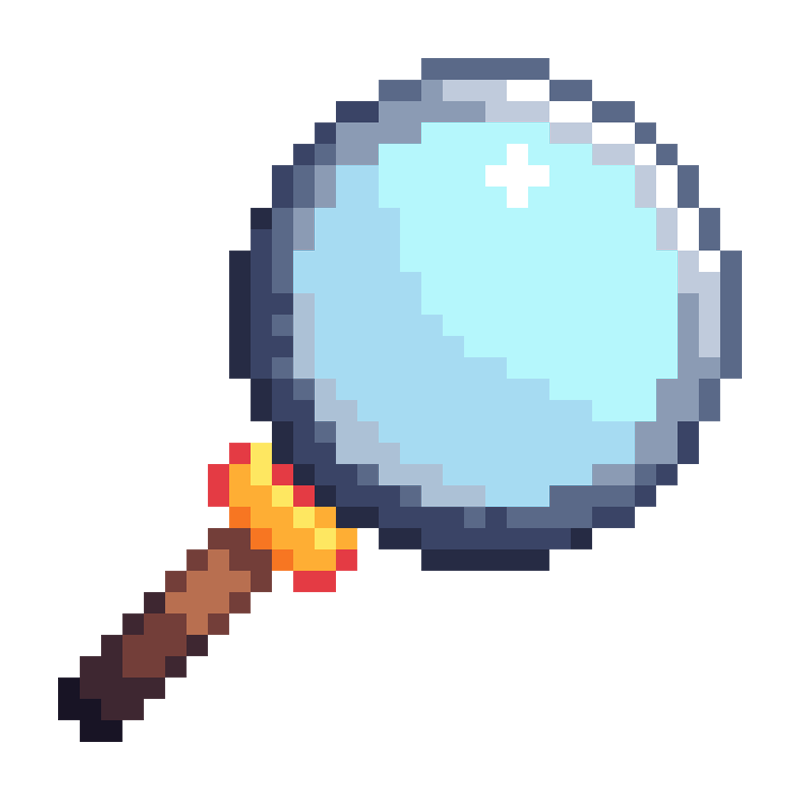
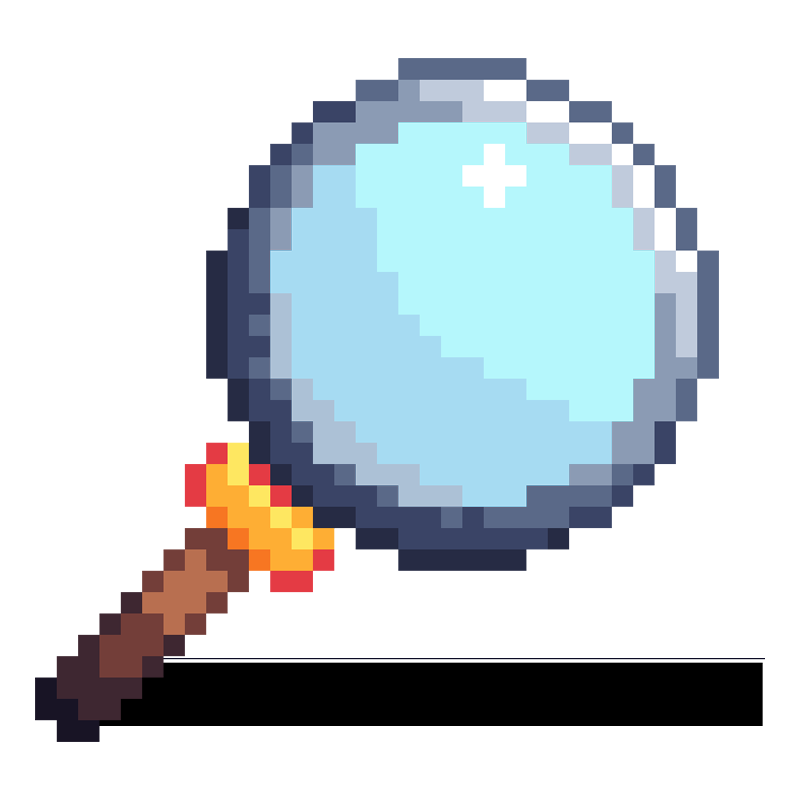
More Search Bars 0.1.0 Full Release!
- Updated icon.png
- Added README
- Added .github/FUNDING.yml for donations info (for the third time)
- Fixed visual glitch with the footer of the keybinds screen
- This mod has some conflicts with AMECS and Controlling! compatibility is coming soon™

Changed region(s): [[0.0312, 0.0625, 0.9688, 0.9375], [0.6875, 0.5, 0.75, 0.5312], [0.6562, 0.4688, 0.6875, 0.5]]

diff --git a/common/src/main/java/coolaid/moresearchbars/keybindsClient/NewKeyBindsScreen.java b/common/src/main/java/coolaid/moresearchbars/keybindsClient/NewKeyBindsScreen.java
@@ -42,23 +42,17 @@ public class NewKeyBindsScreen extends KeyBindsScreen {
     public NewKeyBindsScreen(Screen screen, Options settings) {
         super(screen, settings);
         this.layout.setHeaderHeight(48);
-        this.layout.setFooterHeight(84);
+        this.layout.setFooterHeight(54);
     }
 
     @Override
     protected void init() {
         super.init();
-        if (isSearchEnabled() && this.search != null) {
-            this.search.moveCursor(0, false);
-        }
+        this.search.moveCursor(0, false);
     }
 
     @Override
     protected void addTitle() {
-        if (!isSearchEnabled()) {
-            super.addTitle();
-            return;
-        }
         int searchX = 200;
         int centerX = this.width / 2;
         this.search = new EditBox(font, centerX - searchX / 2, 20, searchX, Button.DEFAULT_HEIGHT, Component.translatable("moresearchbars.editbox.search"));
@@ -97,9 +91,8 @@ public class NewKeyBindsScreen extends KeyBindsScreen {
         grid.rowSpacing(4);
         grid.columnSpacing(8);
 
-        // Manage the rows and add a buffer to push everything down. 2 columns wide and 24 pixels tall.
+        // Manage the rows; no spacer so the footer top lines up with the buttons.
         GridLayout.RowHelper rowHelper = grid.createRowHelper(2);
-        rowHelper.addChild(net.minecraft.client.gui.layouts.SpacerElement.height(24), 2);
 
         // 4 buttons (2 top and 2 bottom)
         rowHelper.addChild(this.buttonNone);

diff --git a/common/src/main/java/coolaid/moresearchbars/keybindsClient/NewKeyBindsList.java b/common/src/main/java/coolaid/moresearchbars/keybindsClient/NewKeyBindsList.java
@@ -35,7 +35,7 @@ import java.util.function.UnaryOperator;
 public class NewKeyBindsList extends CustomList {
 
     private static final int HEADER_HEIGHT = 48;
-    private static final int FOOTER_HEIGHT = 84;
+    private static final int FOOTER_HEIGHT = 54;
 
     private final KeyBindsScreen controlsScreen;
     private final Minecraft mc;

diff --git a/README.md b/README.md
@@ -1,0 +1,19 @@
+# More Search Bars
+![](https://img.shields.io/badge/Loader-Fabric/Quilt_+_NeoForge-darkslategray?style=for-the-badge)
+![](https://img.shields.io/badge/Supports_Versions-1.21.9_--_1.21.11-darkslategray?style=for-the-badge)
+![](https://img.shields.io/badge/Environments-Client-darkslategray?style=for-the-badge)
+
+### Add more search bars to various UI screens!
+
+## This mod features:
+- **New search bars in the *Server List*, *GameRules*, in-game *Statistics*, and *Keybinds* screens**
+- **Keybinds screen adds additional buttons to filter *Unbound Keys* and *Key Conflicts***
+- **Also adds a secondary confirmation button to reset all binds**
+- **Searching through the server list by filtering both *Server Name* and/or *Server Address***
+- **Custom config screen to toggle individual search bars based on individual preference**
+- **Functions fully client-side with ModMenu integration for config access**
+
+#### Any bugs or issues, please make a report on [GitHub](https://github.com/CoolAid48/More-Search-Bars/issues)
+
+[<img alt="Support me on Ko-fi" src="https://cdn.jsdelivr.net/npm/@intergrav/devins-badges@3.2.0/assets/cozy/donate/kofi-singular-alt_vector.svg"/>](https://ko-fi.com/coolaid48)
+[<img alt="Chat with me in Discord" src="https://cdn.jsdelivr.net/npm/@intergrav/devins-badges@3.2.0/assets/cozy/social/discord-plural_vector.svg"/>](https://discord.gg/J2SGshKNah)
